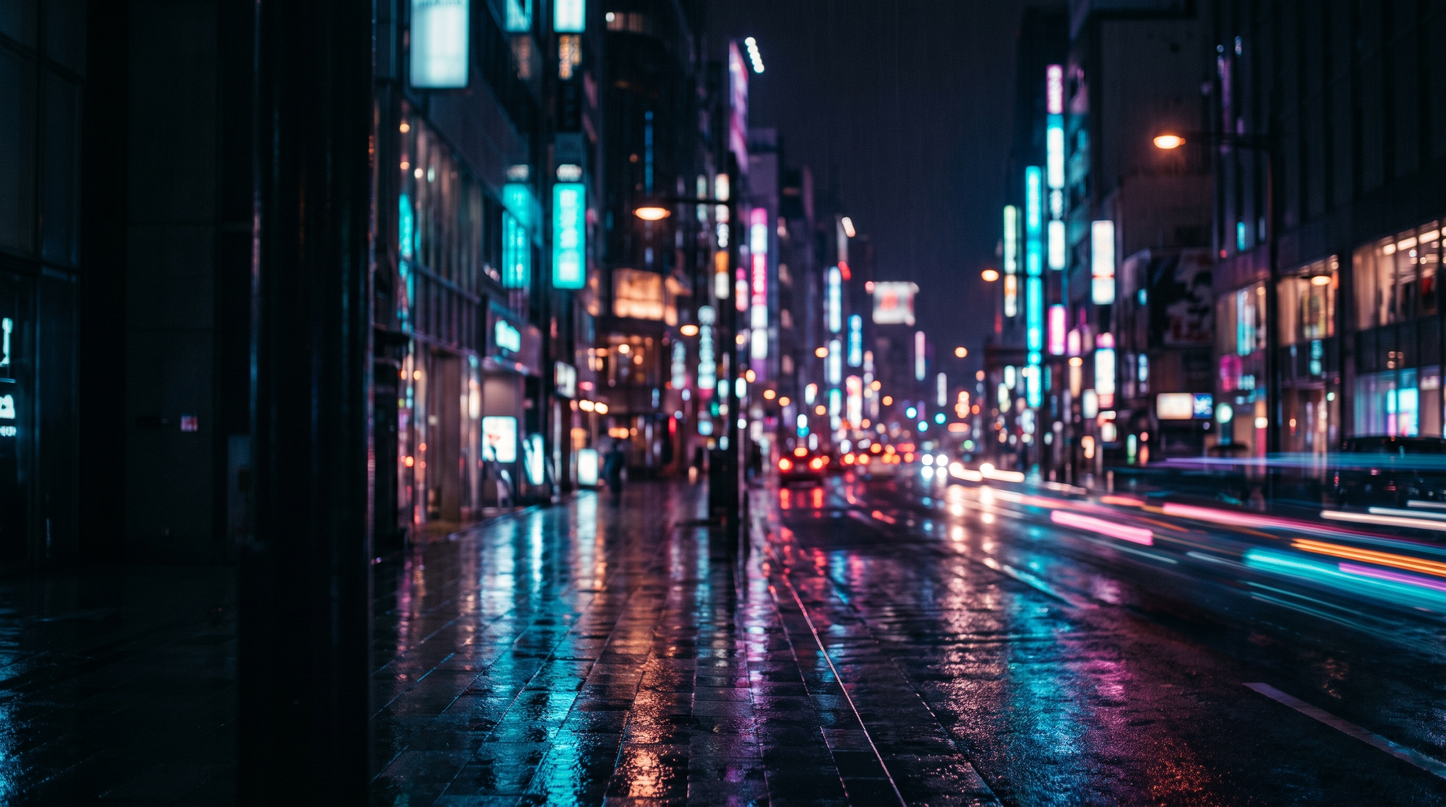
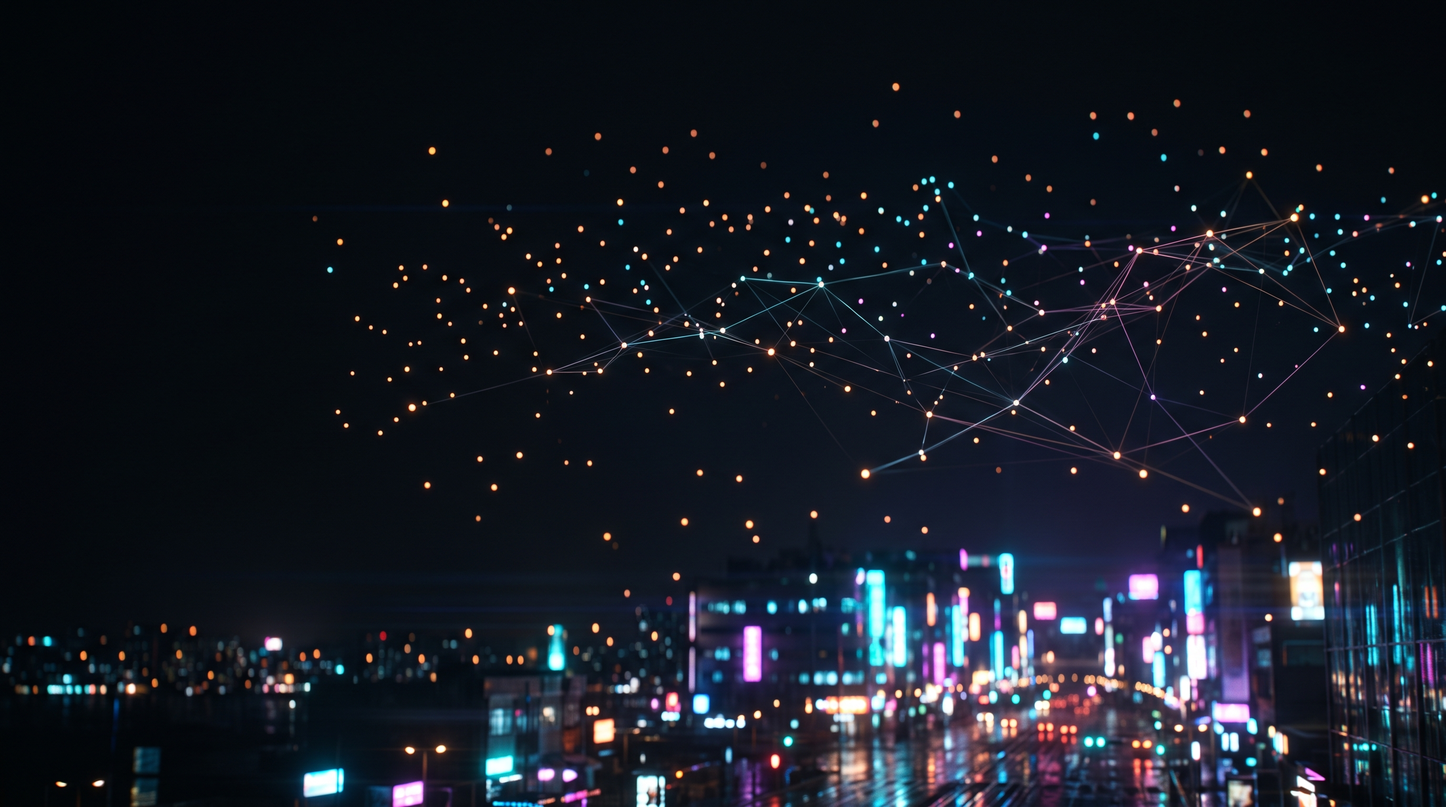
feat(income-stack): lock mission plate to constellation over city
Regenerate 00b-mission as void-adjacent linked path lights above a distant neon rim, not street or terrace.

diff --git a/src/data/chipImagery.ts b/src/data/chipImagery.ts
@@ -1759,14 +1759,14 @@ export const NEON_CITY_PLATE_RETAKES: PlateRetakeSpec[] = [
   {
     plateFile: "sp-stack-00b-mission.png",
     slideId: "00b-mission",
-    accent: "cyan magenta and warm amber points of light over a deep night field",
+    accent: "warm amber path lights and cyan-magenta links over a distant night city",
     style: NEON_CITY_STYLE_ANCHOR,
     composeFromPhotoreal: false,
     skipNeonStyleLock: true,
     subject:
-      "A cinematic neon night photograph of a constellation of lives: countless soft anonymous points of warm amber and cool cyan-magenta light hover and link across a deep dark field above a distant rain-slicked metropolis far below — path lights and living nodes forming a vast connected network, not a star chart UI and not a data dashboard. Completely empty of readable people — no faces, no figures in the foreground, no silhouettes as heroes, no products, no patches, no packages. Quiet darker left third for later type. Mission as connection at scale — health, freedom, and impact as one field of light. Not a terrace balcony overlook, not a retail aisle, not a void hologram stage.",
+      "Dark void-adjacent night sky filling most of the frame: soft anonymous warm amber and soft cyan-magenta points of light — people as tiny glowing dots and path lights — linked by thin faint luminous threads into one larger constellation network floating high above a distant rain-slicked neon metropolis far below along the bottom edge only. Deep clean blacks between the lights. Completely empty of readable humans — no faces, no bodies, no silhouettes as heroes, no hands, no products, no patches, no packages, no UI charts, no dashboards, no graphs, no icons, no HUD overlays. The dots are photographic bokeh and soft path lights, not interface markers. Quiet darker left third for later type. Mission as connection at scale — one field of light over the world. Not a street-level sidewalk, not a terrace balcony, not a retail aisle, not a product hero.",
     motion:
-      "Linked light points breathe softly. Distant city glow holds. Slow almost-still drift through the constellation.",
+      "Linked light points breathe softly. Faint threads shimmer. Slow almost-still drift through the constellation above the distant city.",
   },
   {
     plateFile: "sp-stack-02-world.png",

diff --git a/docs/superpowers/specs/2026-08-25-our-mission-slide-design.md b/docs/superpowers/specs/2026-08-25-our-mission-slide-design.md
@@ -6,7 +6,7 @@
 
 ## Goal
 
-Add a **new slide** after the Income Stack title with hero text **Our Mission.** over a neon night-city horizon overlook — empty terrace / balcony looking into the skyline, quiet left for type, no product, no people.
+Add a **new slide** after the Income Stack title with hero text **Our Mission.** over a constellation of lives — soft anonymous neon points linked into a network above a distant night city, quiet left for type, no product, no people, not UI.
 
 ## Placement (locked)
 
@@ -28,11 +28,11 @@ Add a **new slide** after the Income Stack title with hero text **Our Mission.**
 
 ## Plate — Concept B (Constellation of lives)
 
-- Neon night field: soft anonymous cyan / magenta / warm amber points of light linking into a connected network above a distant metropolis
+- Dark void-adjacent night: warm amber + cyan-magenta dots (people as path lights) linked by faint threads into one constellation over a distant metropolis along the bottom edge
 - Quiet darker **left** third for the headline
-- No faces / hero figures / products / packages; not a terrace balcony overlook (avoids repeating `00-era`)
+- No faces / hero figures / products / packages; not terrace, not street-level sidewalk, not dashboard/UI markers (avoids repeating `00-era` and reading as interface)
 - Live path: `public/concepts/clean/sp-stack-00b-mission.png`
-- Gen: `composeFromPhotoreal: false` + `skipNeonStyleLock: true`
+- Gen: `composeFromPhotoreal: false` + `skipNeonStyleLock: true` (no `neonVoidStage` — city rim must remain)
 
 ## Experience + PPTX
 
@@ -45,5 +45,5 @@ Add a **new slide** after the Income Stack title with hero text **Our Mission.**
 
 - [x] Opens as scene 3 (after era + title)
 - [x] Headline on-screen: Our Mission.
-- [x] Neon horizon overlook plate; quiet left; empty of people/product
+- [x] Constellation-over-city plate; quiet left; empty of people/product/UI
 - [x] PPTX regenerated with 25 slides
